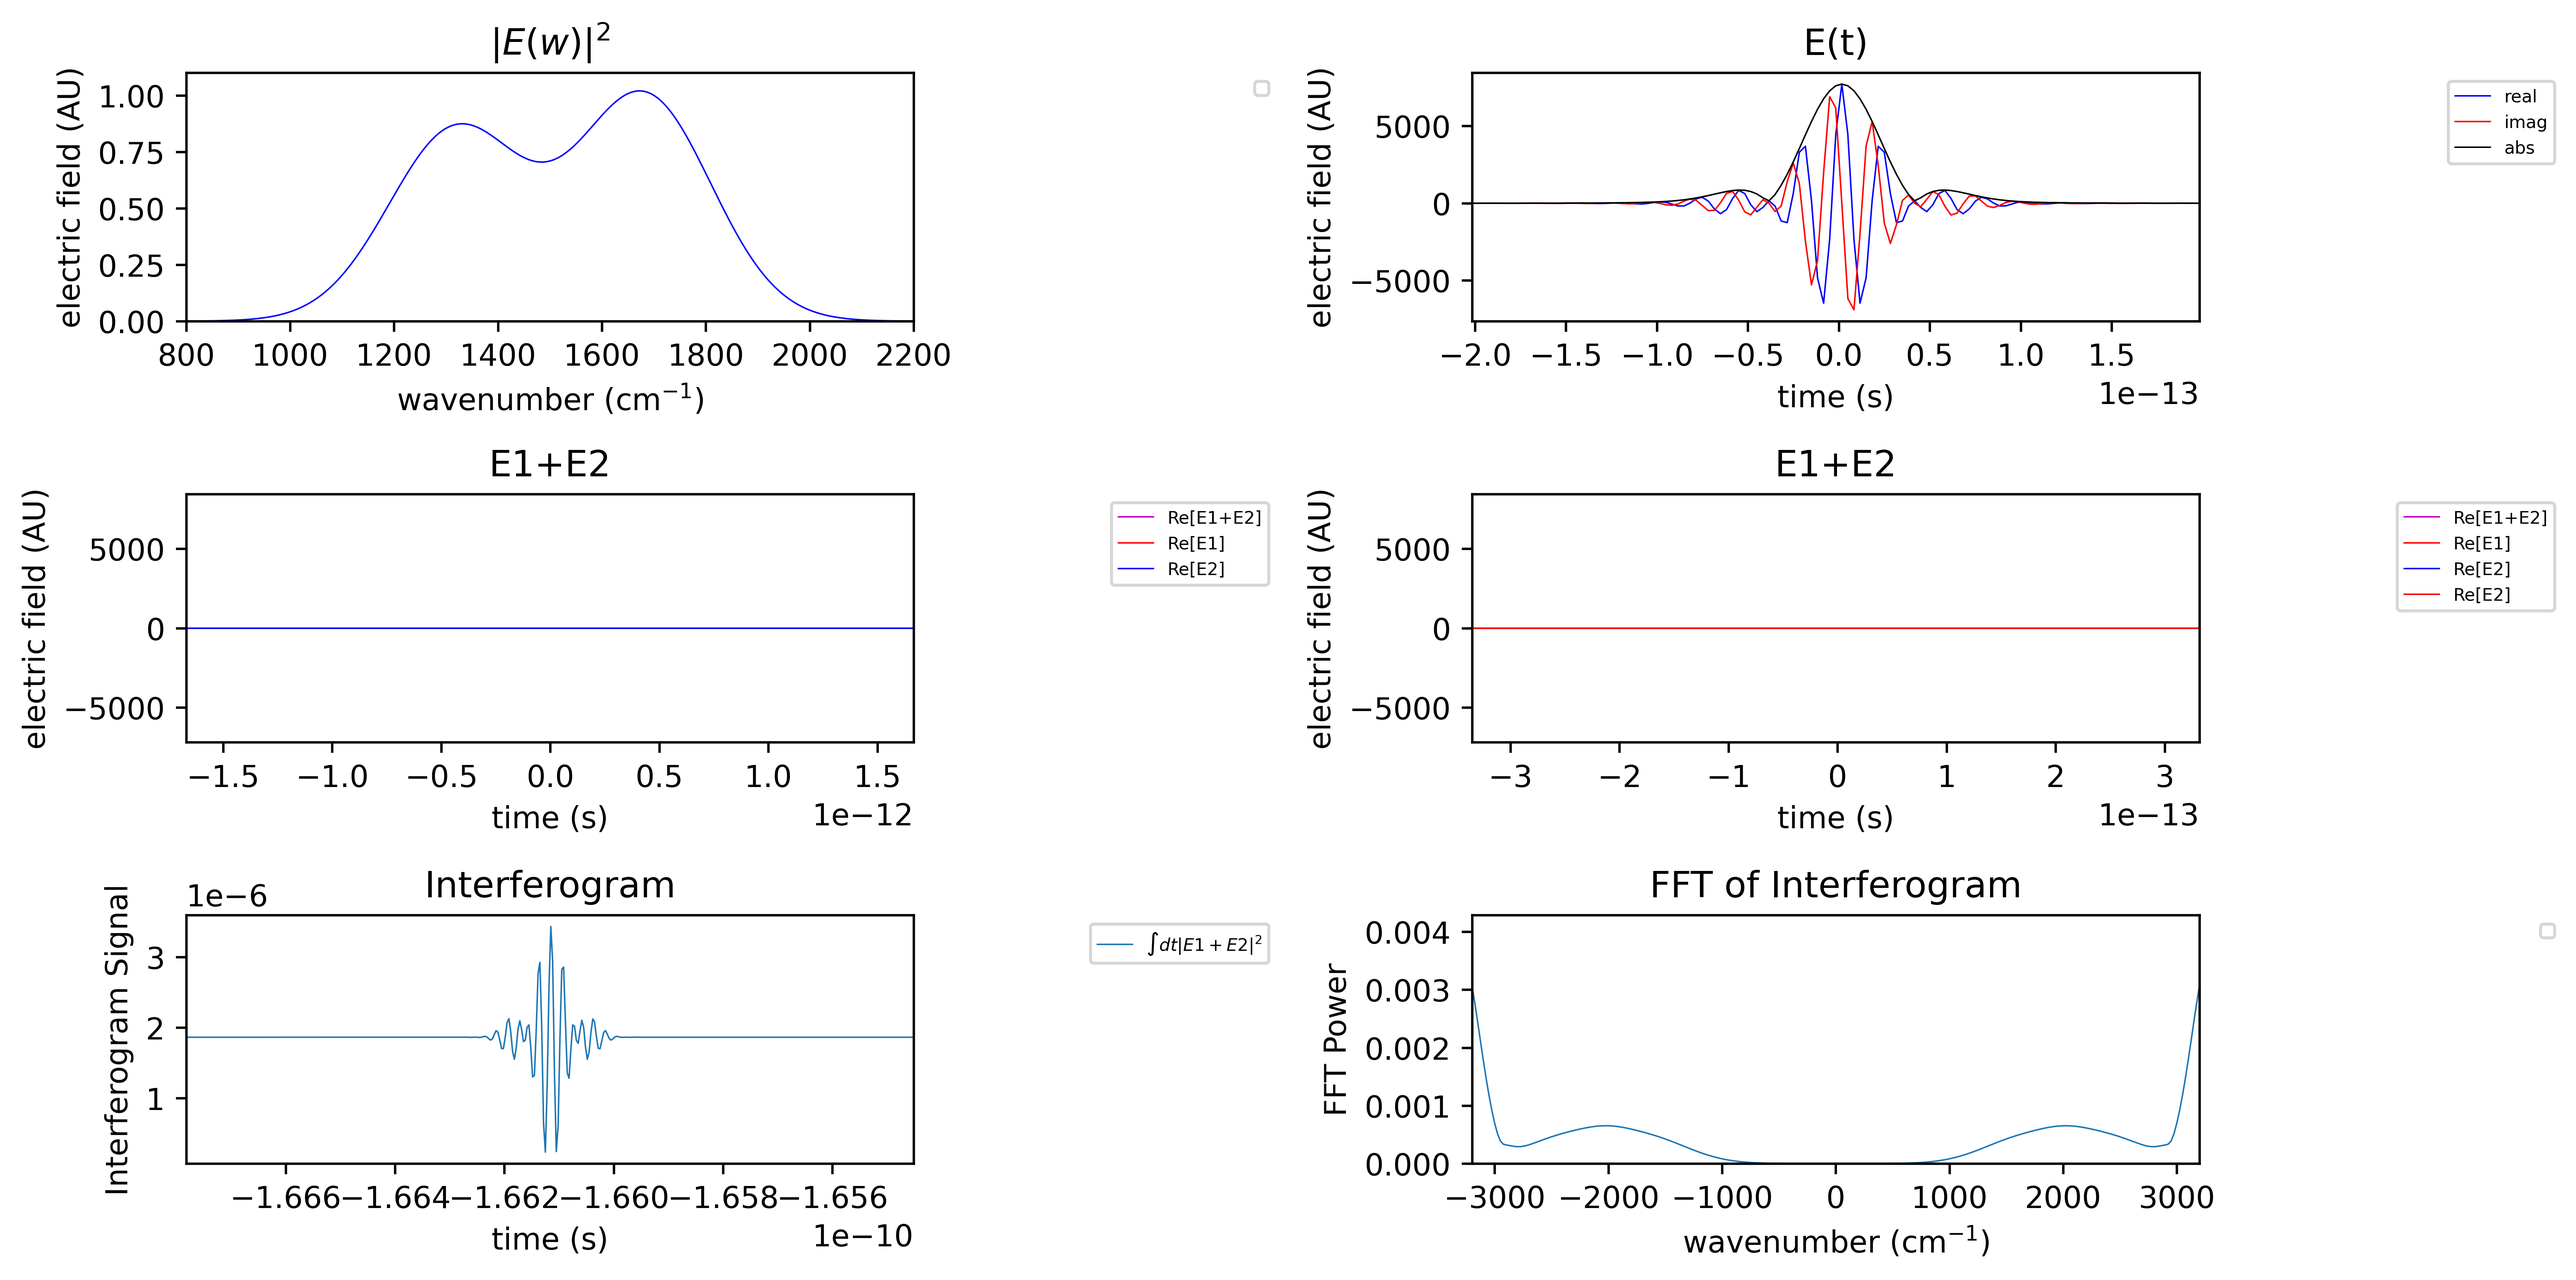
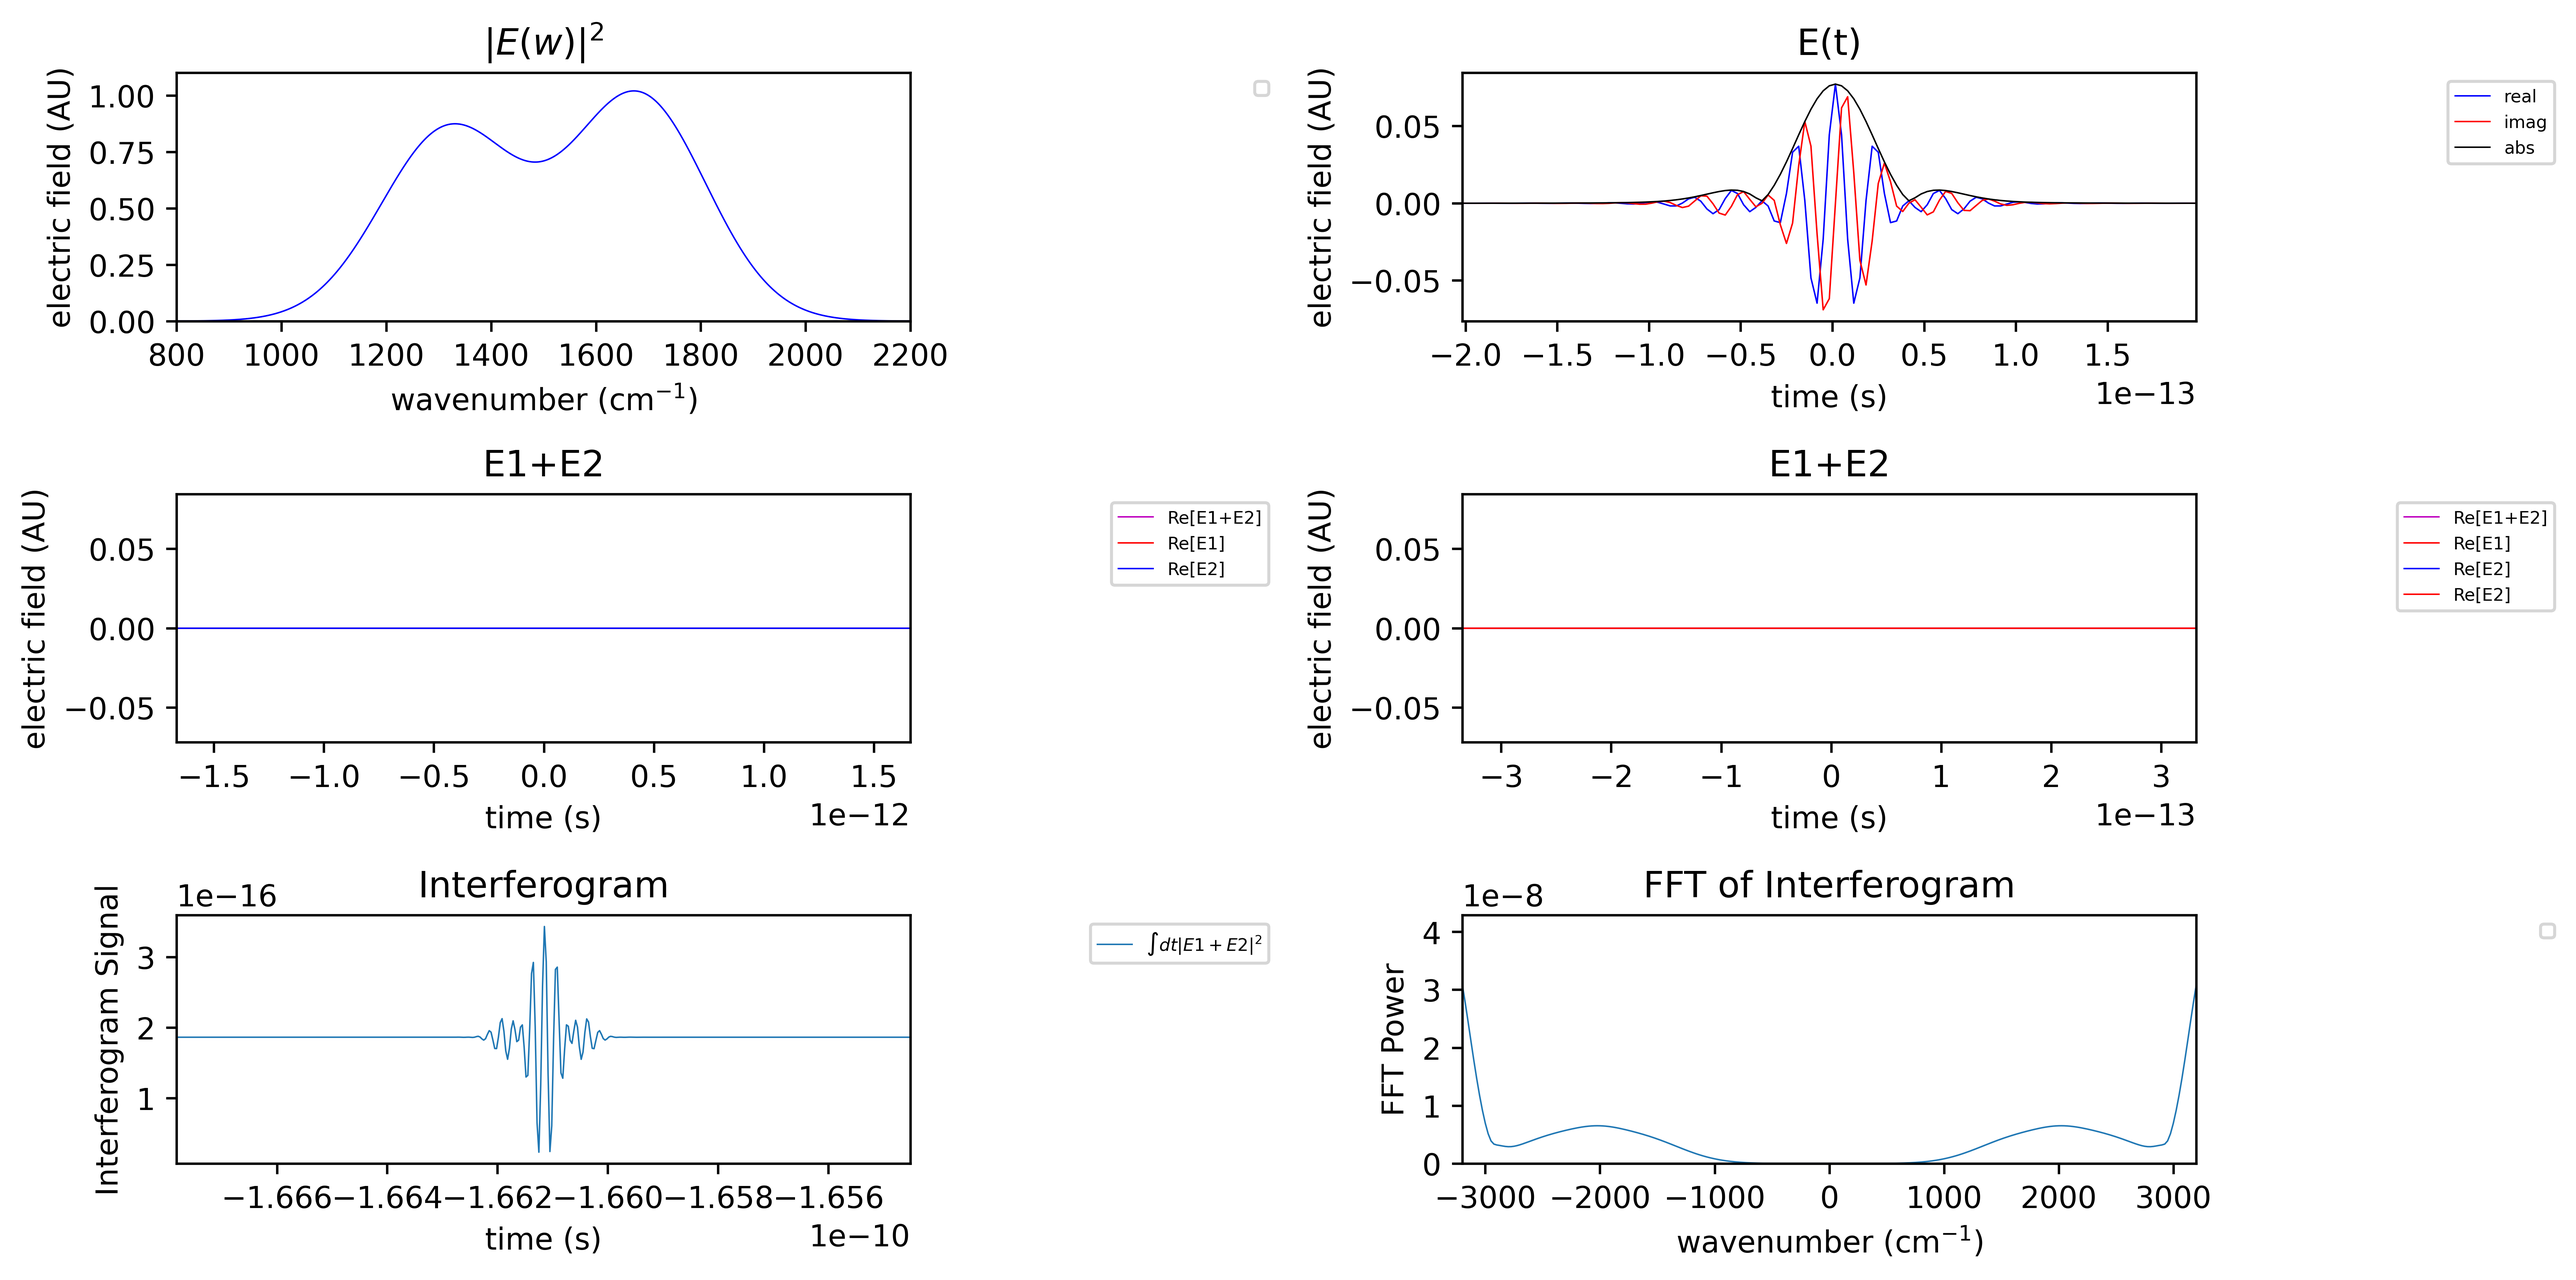
changed ifft to fft

diff --git a/interf.py b/interf.py
@@ -55,7 +55,7 @@ def main(args):
     if args.debug:
         print('Made time axis with ranging from {:.2f} to {:.2f} ps with center at index {} and delta_t of {:.2f} ps'.format(np.min(t)*_to_ps,np.max(t)*_to_ps,t[t0],dt*_to_ps))
     #sig_t = np.fft.ifft(np.sqrt(sig_w)) #complex (transform-limited) electric field in the time domain (note this sqrt was not in the MATLAB version)
-    sig_t = np.fft.fft(np.sqrt(sig_w)) #complex (transform-limited) electric field in the time domain (note this sqrt was not in the MATLAB version) #try fft rather than ifft
+    sig_t = np.fft.ifft(np.sqrt(sig_w)) #complex (transform-limited) electric field in the time domain (note this sqrt was not in the MATLAB version) #try fft rather than ifft
     sig_t = np.fft.fftshift(sig_t)
 
     #Make second subplot
